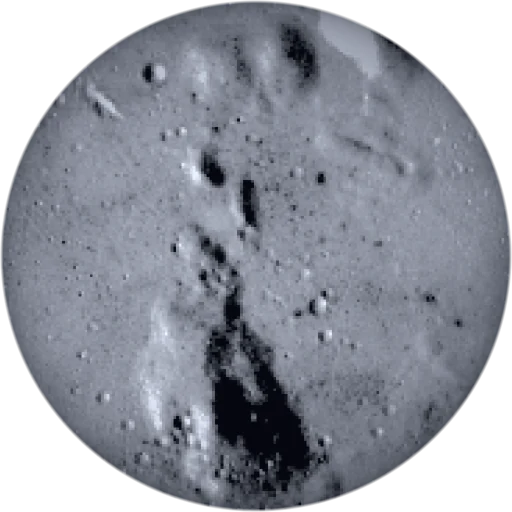
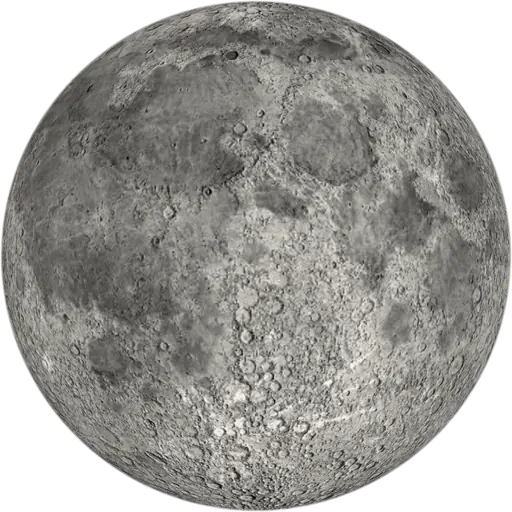
Use the iconic near-side full moon for the moon variant
The previous moon.webp was scikit-image's "moon" sample — a cropped patch
of lunar surface that read as a generic gray cratered sphere rather than
the recognizable full moon, falling short of the bar that the moon "must
read unmistakably as the moon."

Replace it with the real near-side full moon: NASA's public-domain lunar
albedo map (the equirectangular grayscale map bundled with three.js)
orthographically projected into a front-facing disc, so the familiar
maria pattern (the "man in the moon") sits where it should. Applied gentle
edge-only limb shading (full moon is back-scatter-flat, so heavy darkening
would look wrong) and the same soft transparent edge. Rendered at 2x and
downsampled to 512px for clean anti-aliasing (~49KB, alpha).

Only the asset and the explanatory comment change; the .moon styling and
all shared drag/glow/scale/float behaviour stay untouched.

Claude-Session: https://claude.ai/code/session_01VgTFtVbhzo2L4JDjWi5ZUw

diff --git a/extension/src/shared/components/interaction/sun/Sun.scss b/extension/src/shared/components/interaction/sun/Sun.scss
@@ -98,11 +98,12 @@
   }
 
   // The moon must read unmistakably as the moon — not a dimmer sun — or the
-  // morning/evening cue it carries says nothing. So it's a real photograph of the
-  // lunar surface: a public-domain NASA image, sphere-shaded into a disc with a
-  // soft transparent edge (see src/assets/img/moon.webp and the render notes in
-  // git history). The genuine cratered relief and cool night halo make it clearly
-  // distinct from the warm, stylised sun.
+  // morning/evening cue it carries says nothing. So it's the real near-side full
+  // moon: NASA's public-domain lunar albedo map orthographically projected into a
+  // front-facing disc (the recognizable "man in the moon" maria), with gentle
+  // limb shading and a soft transparent edge (see src/assets/img/moon.webp and
+  // the render notes in git history). The genuine maria + cratered relief and the
+  // cool night halo make it clearly distinct from the warm, stylised sun.
   &.moon {
     background: center / cover no-repeat url("@src/assets/img/moon.webp");
     box-shadow: